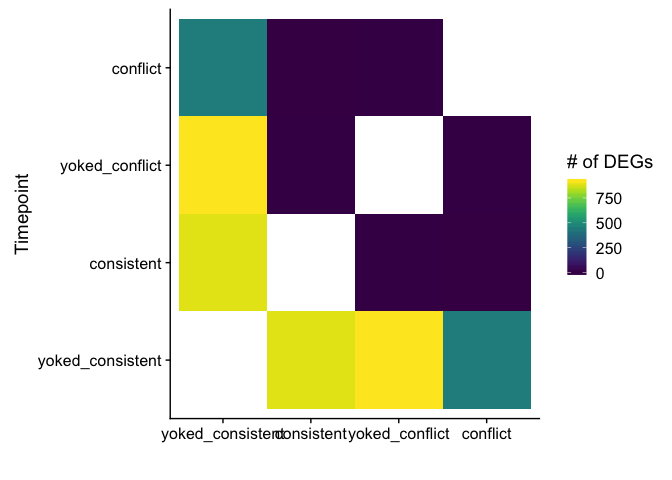
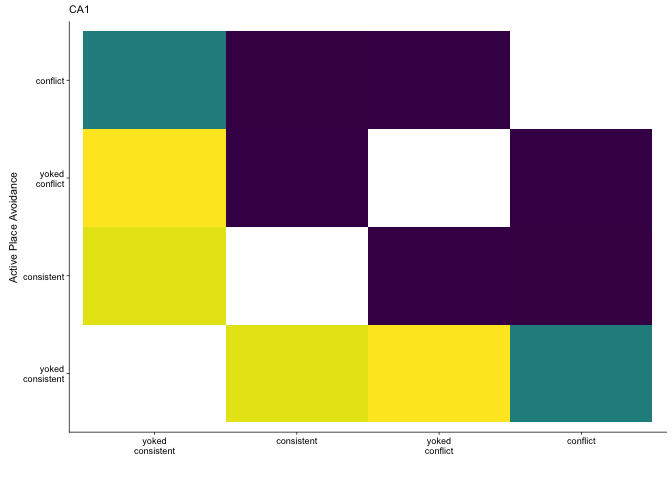
better heatmaps

diff --git a/scripts/02c_rnaseqSubfield.md b/scripts/02c_rnaseqSubfield.md
@@ -509,11 +509,20 @@ yoked-consistent.
     dat$V2 <- factor(dat$V2, levels = 
                                   c("yoked_consistent", "consistent", "yoked_conflict", "conflict"))
 
-    ggplot(dat, aes(V1, V2)) +
-        geom_tile(aes(fill = V3)) +
-        scale_fill_viridis(na.value="#FFFFFF00") + 
-        xlab(" ") + ylab("Timepoint") +
-        labs(fill = "# of DEGs")
+    # rename levels
+    levels(dat$V1) <- c("yoked\nconsistent","consistent",  "yoked\nconflict","conflict")
+    levels(dat$V2) <- c("yoked\nconsistent","consistent",  "yoked\nconflict","conflict")
+
+
+    DGheat <- ggplot(dat, aes(V1, V2)) +
+      geom_tile(aes(fill = V3)) +
+      scale_fill_viridis(na.value="#FFFFFF00") + 
+      xlab(" ") + ylab("Active Place Avoidance") +
+      labs(fill = "# of DEGs",
+           subtitle = "DG") +
+      theme_cowplot(font_size = 8, line_size = 0.25) +  
+      theme(legend.position = "none") 
+    DGheat
 
 ![](../figures/02c_rnaseqSubfield/heatmapsDG-1.png)
 
@@ -699,22 +708,25 @@ for the manuscript.
     dat$V2 <- factor(dat$V2, levels = 
                                   c("yoked_consistent", "consistent", "yoked_conflict", "conflict"))
 
-    ggplot(dat, aes(V1, V2)) +
-        geom_tile(aes(fill = V3)) +
-        scale_fill_viridis(na.value="#FFFFFF00") + 
-        xlab(" ") + ylab("Timepoint") +
-        labs(fill = "# of DEGs")
+    # rename levels
+    levels(dat$V1) <- c("yoked\nconsistent","consistent",  "yoked\nconflict","conflict")
+    levels(dat$V2) <- c("yoked\nconsistent","consistent",  "yoked\nconflict","conflict")
+
+
+    CA3heat <- ggplot(dat, aes(V1, V2)) +
+      geom_tile(aes(fill = V3)) +
+      scale_fill_viridis(na.value="#FFFFFF00") + 
+      xlab(" ") + ylab("Active Place Avoidance") +
+      labs(fill = "# of DEGs",
+           subtitle = "CA3") +
+      theme_cowplot(font_size = 8, line_size = 0.25) +  
+      theme(legend.position = "none") 
+    CA3heat
 
 ![](../figures/02c_rnaseqSubfield/heatmapsCA3-1.png)
 
 CA1
 ---
-
-Two comparisons within CA1 are noteable
-
-![fig5](../figures/figures2-02.png)
-
-![fig6](../figures/figures2-03.png)
 
     colData <- read.csv("../data/02a_colData.csv", header = T)
     countData <- read.csv("../data/02a_countData.csv", header = T, check.names = F, row.names = 1)
@@ -1051,6 +1063,10 @@ Two comparisons within CA1 are noteable
 
 ![](../figures/02c_rnaseqSubfield/CA1-5.png)
 
+    # order levels
+    colData$APA2 <- factor(colData$APA2, 
+                              levels = c("yoked_consistent", "consistent", "yoked_conflict", "conflict"))
+
     #create list of groups
     a <- levels(colData$APA2)
     b <- levels(colData$APA2)
@@ -1070,13 +1086,13 @@ Two comparisons within CA1 are noteable
 
     head(dat)
 
-    ##                                    V1               V2  V3
-    ## conflictconsistent           conflict       consistent   0
-    ## conflictyoked_conflict       conflict   yoked_conflict   4
-    ## conflictyoked_consistent     conflict yoked_consistent 447
-    ## consistentconflict         consistent         conflict   0
-    ## consistentyoked_conflict   consistent   yoked_conflict   1
-    ## consistentyoked_consistent consistent yoked_consistent 882
+    ##                                              V1               V2  V3
+    ## yoked_consistentconsistent     yoked_consistent       consistent 882
+    ## yoked_consistentyoked_conflict yoked_consistent   yoked_conflict 917
+    ## yoked_consistentconflict       yoked_consistent         conflict 447
+    ## consistentyoked_consistent           consistent yoked_consistent 882
+    ## consistentyoked_conflict             consistent   yoked_conflict   1
+    ## consistentconflict                   consistent         conflict   0
 
     rownames(dat) <- NULL #remove row names
     data_wide <- spread(dat, V2, V3)
@@ -1093,10 +1109,24 @@ Two comparisons within CA1 are noteable
     dat$V2 <- factor(dat$V2, levels = 
                                   c("yoked_consistent", "consistent", "yoked_conflict", "conflict"))
 
-    ggplot(dat, aes(V1, V2)) +
-        geom_tile(aes(fill = V3)) +
-        scale_fill_viridis(na.value="#FFFFFF00") + 
-        xlab(" ") + ylab("Timepoint") +
-        labs(fill = "# of DEGs")
+    # rename levels
+    levels(dat$V1) <- c("yoked\nconsistent","consistent",  "yoked\nconflict","conflict")
+    levels(dat$V2) <- c("yoked\nconsistent","consistent",  "yoked\nconflict","conflict")
+
+
+    CA1heat <- ggplot(dat, aes(V1, V2)) +
+      geom_tile(aes(fill = V3)) +
+      scale_fill_viridis(na.value="#FFFFFF00") + 
+      xlab(" ") + ylab("Active Place Avoidance") +
+      labs(fill = "# of DEGs",
+           subtitle = "CA1") +
+      theme_cowplot(font_size = 8, line_size = 0.25) +  
+      theme(legend.position = "none") 
+    CA1heat
 
 ![](../figures/02c_rnaseqSubfield/heatmapsCA1-1.png)
+
+    # combined heat plot
+    plot_grid(DGheat, CA3heat, CA1heat)
+
+![](../figures/02c_rnaseqSubfield/totalDEGs-1.png)
